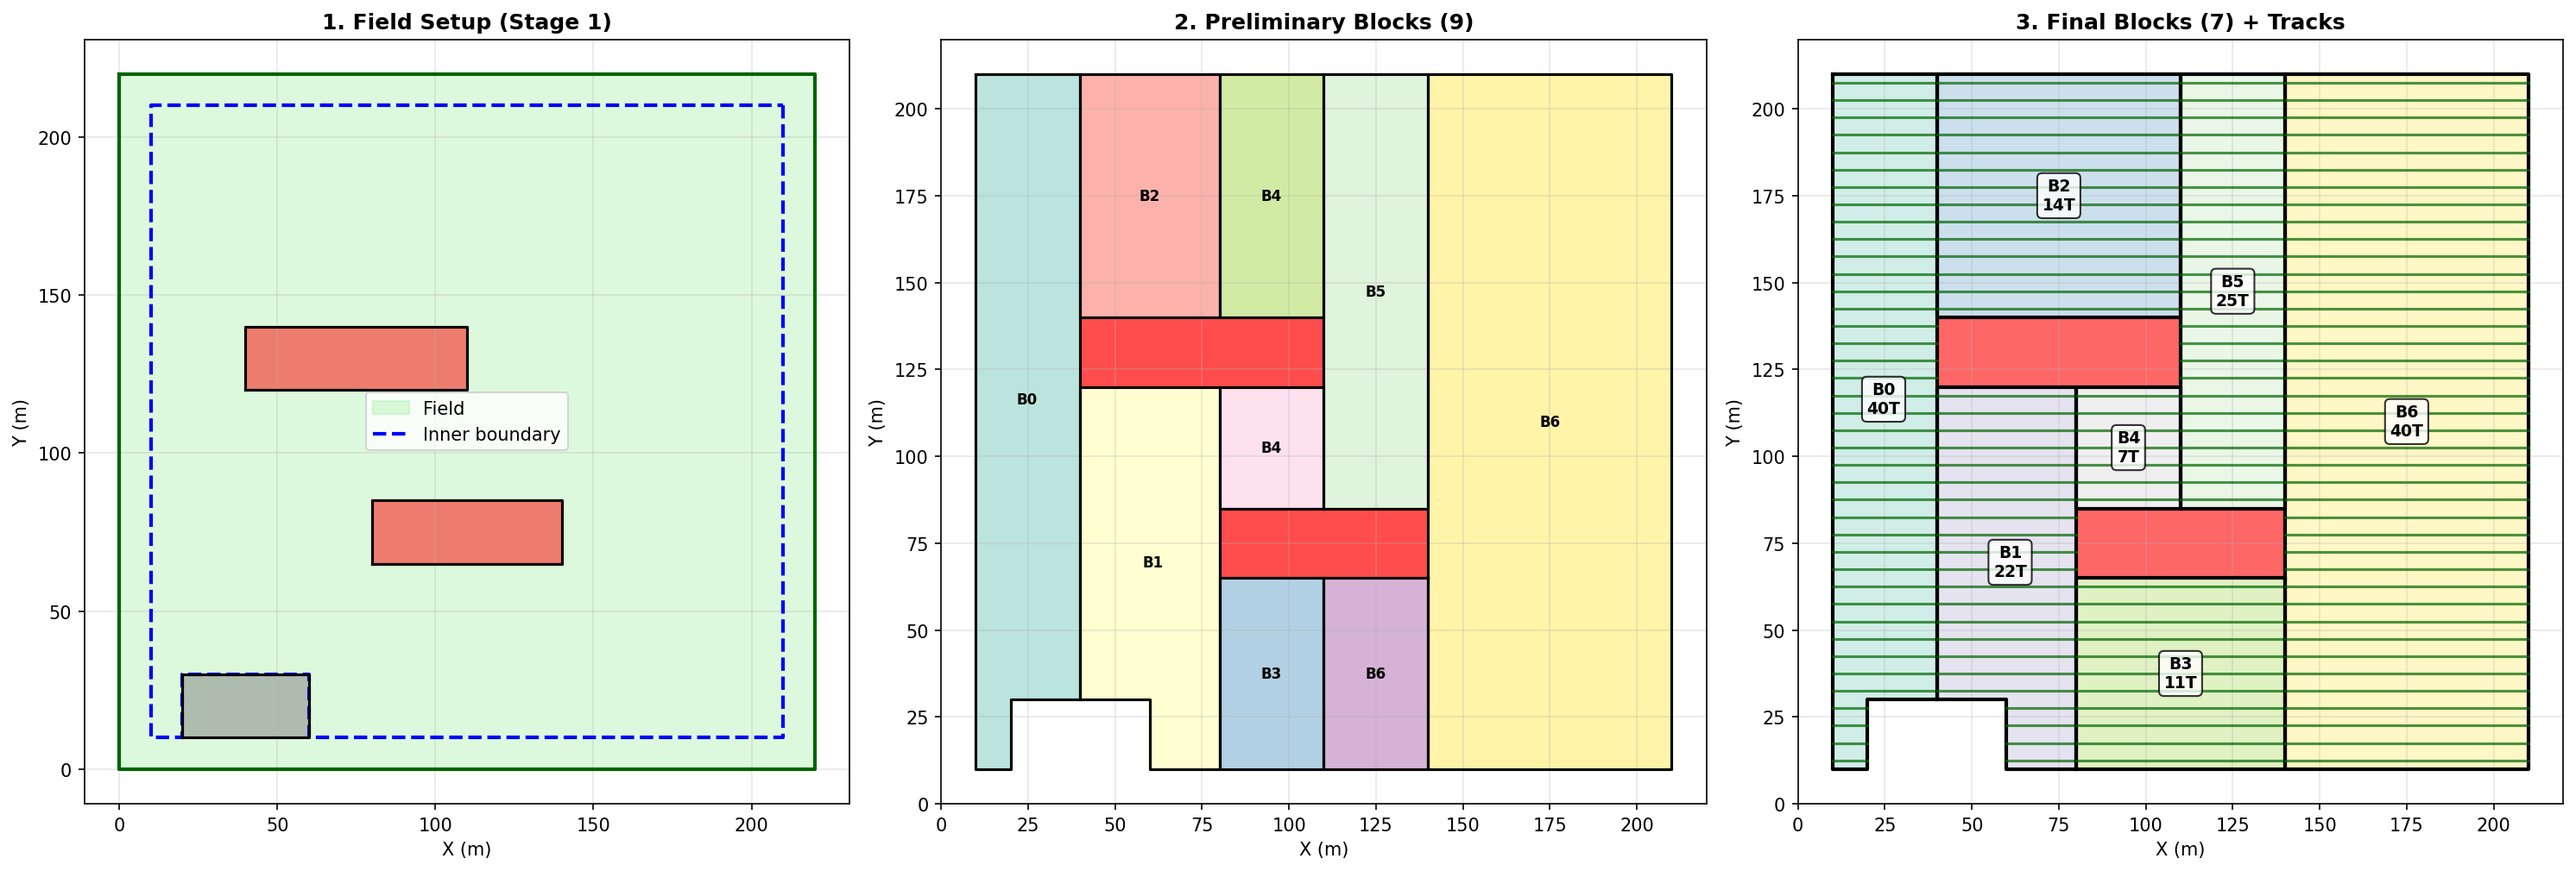
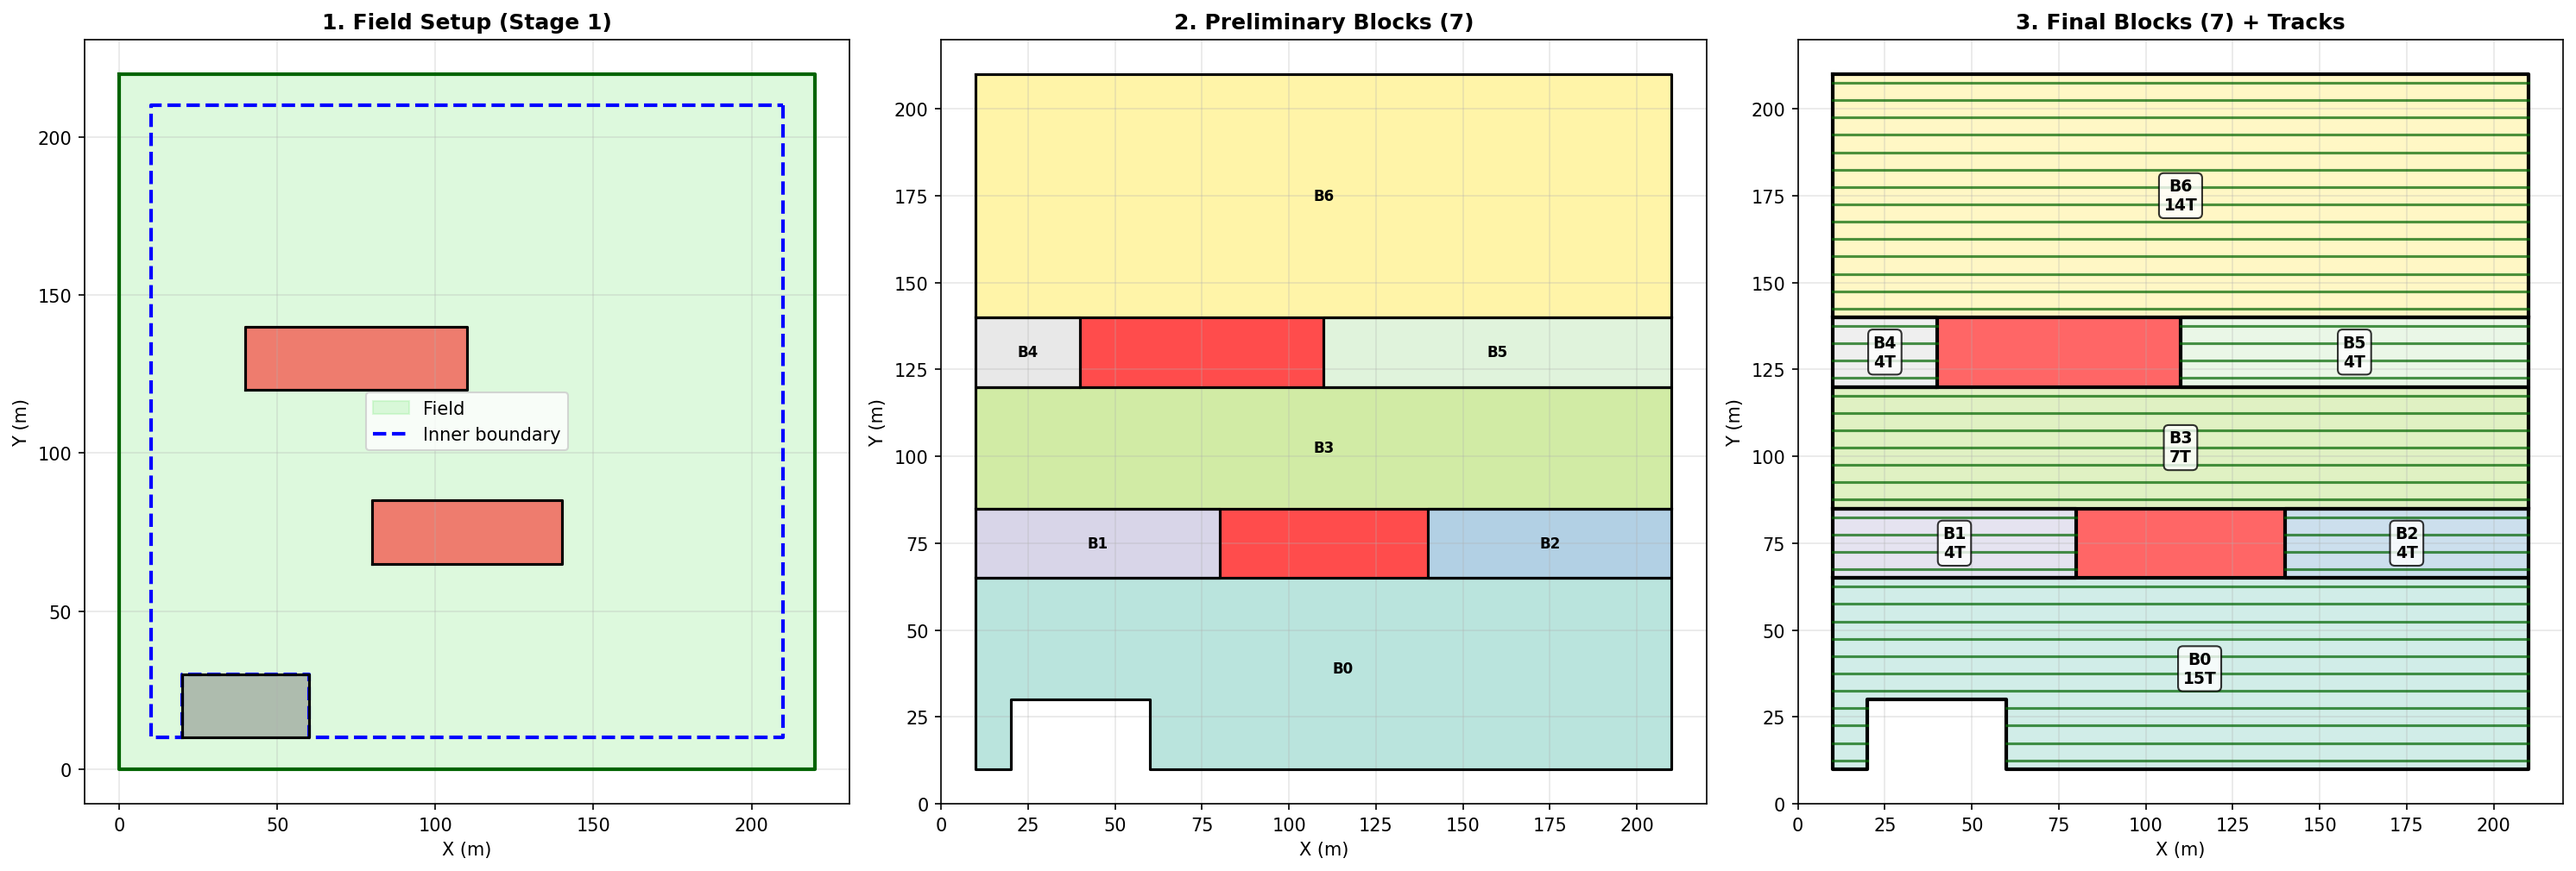
Fix the parallel slice direction

Changed region(s): [[0.6857, 0.0614, 0.9973, 0.8901], [0.374, 0.0614, 0.6545, 0.8901]]

diff --git a/src/decomposition/boustrophedon.py b/src/decomposition/boustrophedon.py
@@ -5,10 +5,11 @@ Implements the *second stage* decomposition algorithm from Zhou et al. 2014
 ([`10.1016/j.compag.2014.08.013`](http://dx.doi.org/10.1016/j.compag.2014.08.013)),
 Section 2.3:
 
-- Sweeps perpendicular to the driving direction θ
+- Slice lines are parallel to the driving direction θ
+- Sweep movement is perpendicular to the driving direction θ
 - Identifies critical points where connectivity of the free space changes
 - Creates obstacle-free cells (preliminary blocks) between consecutive
-  critical points, as illustrated in the figures of Section 2.3.
+  critical points, as illustrated in the figures of Section 2.3.1.
 
 This module corresponds conceptually to the boustrophedon decomposition
 step that transforms the field body (inner boundary minus Type B obstacles
@@ -38,9 +39,9 @@ def find_critical_points(
     - Sweep line enters/exits obstacle regions
 
     Algorithm:
-    1. Rotate field and obstacles to align with sweep direction (vertical)
-    2. Project all obstacle vertices onto sweep axis
-    3. Sort and deduplicate critical x-coordinates
+    1. Rotate field and obstacles to align driving direction horizontally (East)
+    2. Project all obstacle vertices onto sweep axis (perpendicular to driving dir)
+    3. Sort and deduplicate critical y-coordinates
 
     Args:
         inner_boundary: Field inner boundary polygon
@@ -48,10 +49,11 @@ def find_critical_points(
         driving_direction_degrees: Driving direction angle
 
     Returns:
-        Sorted list of critical x-coordinates in rotated coordinate system
+        Sorted list of critical y-coordinates in rotated coordinate system
     """
-    # Rotate to align driving direction horizontally (sweep vertically)
+    # Rotate to align driving direction horizontally (East)
     # We rotate by -angle to make driving direction point East (0°)
+    # After rotation, sweep lines are horizontal, sweeping vertically
     rotation_angle = -driving_direction_degrees
 
     # Rotate field boundary
@@ -60,72 +62,74 @@ def find_critical_points(
     # Rotate obstacles
     rotated_obstacles = [rotate_geometry(obs, rotation_angle) for obs in obstacles]
 
-    # Collect critical x-coordinates
-    critical_x = []
+    # Collect critical y-coordinates (sweep is perpendicular to driving direction)
+    critical_y = []
 
-    # Add field boundary x-coordinates (left and right extents)
+    # Add field boundary y-coordinates (bottom and top extents)
     bounds = rotated_boundary.bounds  # (minx, miny, maxx, maxy)
-    critical_x.append(bounds[0])  # Left boundary
-    critical_x.append(bounds[2])  # Right boundary
+    critical_y.append(bounds[1])  # Bottom boundary
+    critical_y.append(bounds[3])  # Top boundary
 
-    # Add all obstacle vertex x-coordinates
+    # Add all obstacle vertex y-coordinates
     for obs in rotated_obstacles:
         coords = list(obs.exterior.coords[:-1])  # Exclude duplicate last point
         for x, y in coords:
-            critical_x.append(x)
+            critical_y.append(y)
 
     # Sort and remove duplicates (with small tolerance for floating point)
-    critical_x = sorted(set(np.round(critical_x, decimals=6)))
+    critical_y = sorted(set(np.round(critical_y, decimals=6)))
 
-    return critical_x
+    return critical_y
 
 
-def create_sweep_line(x_coord: float, y_min: float, y_max: float) -> LineString:
+def create_sweep_line(y_coord: float, x_min: float, x_max: float) -> LineString:
     """
-    Create a vertical sweep line at given x-coordinate.
+    Create a horizontal sweep line at given y-coordinate.
+
+    The sweep line is parallel to the driving direction (after rotation to East).
 
     Args:
-        x_coord: X-coordinate for sweep line
-        y_min: Minimum Y value (bottom)
-        y_max: Maximum Y value (top)
+        y_coord: Y-coordinate for sweep line
+        x_min: Minimum X value (left)
+        x_max: Maximum X value (right)
 
     Returns:
-        Vertical LineString representing sweep line
+        Horizontal LineString representing sweep line (parallel to driving direction)
     """
-    return LineString([(x_coord, y_min), (x_coord, y_max)])
+    return LineString([(x_min, y_coord), (x_max, y_coord)])
 
 
 def compute_slice_polygons(
     inner_boundary: Polygon,
     obstacles: List[Polygon],
-    x_left: float,
-    x_right: float,
-    y_min: float,
-    y_max: float,
+    y_bottom: float,
+    y_top: float,
+    x_min: float,
+    x_max: float,
 ) -> List[Polygon]:
     """
-    Compute obstacle-free polygons in a vertical slice.
+    Compute obstacle-free polygons in a horizontal slice.
 
-    Creates a rectangular slice and subtracts all obstacle regions,
-    resulting in one or more obstacle-free cells.
+    Creates a rectangular slice (parallel to driving direction) and subtracts
+    all obstacle regions, resulting in one or more obstacle-free cells.
 
     Args:
         inner_boundary: Field inner boundary
         obstacles: List of obstacles
-        x_left: Left boundary of slice
-        x_right: Right boundary of slice
-        y_min: Bottom boundary
-        y_max: Top boundary
+        y_bottom: Bottom boundary of slice
+        y_top: Top boundary of slice
+        x_min: Left boundary
+        x_max: Right boundary
 
     Returns:
         List of obstacle-free polygon cells in this slice
     """
-    # Create rectangular slice
+    # Create rectangular slice (horizontal, parallel to driving direction after rotation)
     slice_box = Polygon([
-        (x_left, y_min),
-        (x_right, y_min),
-        (x_right, y_max),
-        (x_left, y_max),
+        (x_min, y_bottom),
+        (x_max, y_bottom),
+        (x_max, y_top),
+        (x_min, y_top),
     ])
 
     # Intersect slice with field boundary
@@ -222,36 +226,36 @@ def boustrophedon_decomposition(
     if inner_boundary.is_empty or not inner_boundary.is_valid:
         return []
 
-    # 2. Rotate geometry to align with sweep direction
+    # 2. Rotate geometry to align driving direction horizontally (East)
     rotation_angle = -driving_direction_degrees
     rotated_boundary = rotate_geometry(inner_boundary, rotation_angle)
     rotated_obstacles = [rotate_geometry(obs, rotation_angle) for obs in obstacles]
 
     # 3. Get bounding box to determine sweep range
     bounds = rotated_boundary.bounds  # (minx, miny, maxx, maxy)
-    y_min, y_max = bounds[1], bounds[3]
+    x_min, x_max = bounds[0], bounds[2]
 
-    # 4. Find critical points
+    # 4. Find critical points (Y-coordinates for horizontal slices)
     critical_points = find_critical_points(inner_boundary, obstacles, driving_direction_degrees)
 
     if len(critical_points) < 2:
         # Field too small or degenerate
         return []
 
-    # 5. Create slices between consecutive critical points
+    # 5. Create horizontal slices between consecutive critical Y-coordinates
     block_polygons_rotated = []
 
     for i in range(len(critical_points) - 1):
-        x_left = critical_points[i]
-        x_right = critical_points[i + 1]
+        y_bottom = critical_points[i]
+        y_top = critical_points[i + 1]
 
-        # Skip zero-width slices
-        if abs(x_right - x_left) < 1e-6:
+        # Skip zero-height slices
+        if abs(y_top - y_bottom) < 1e-6:
             continue
 
-        # Compute obstacle-free cells in this slice
+        # Compute obstacle-free cells in this horizontal slice
         slice_polygons = compute_slice_polygons(
-            rotated_boundary, rotated_obstacles, x_left, x_right, y_min, y_max
+            rotated_boundary, rotated_obstacles, y_bottom, y_top, x_min, x_max
         )
 
         # Add to results

diff --git a/tests/test_stage3_integration.py b/tests/test_stage3_integration.py
@@ -100,11 +100,20 @@ def test_full_stage3_pipeline():
     print("\n[STAGE 3] Entry/Exit Node Generation")
     print("-" * 80)
 
-    # Create entry/exit nodes for all blocks
+    # Filter out blocks with no tracks (too narrow to traverse)
+    # After corrected sweep direction, some blocks may be too narrow perpendicular to driving direction
+    traversable_blocks = [b for b in final_blocks if len(b.tracks) > 0]
+    print(f" Traversable blocks (with tracks): {len(traversable_blocks)}/{len(final_blocks)}")
+
+    # Renumber blocks to be consecutive (required for ACO solver)
+    for new_id, block in enumerate(traversable_blocks):
+        block.block_id = new_id
+
+    # Create entry/exit nodes for traversable blocks only
     all_nodes = []
     node_index = 0
 
-    for block in final_blocks:
+    for block in traversable_blocks:
         nodes = block.create_entry_exit_nodes(start_index=node_index)
         all_nodes.extend(nodes)
         node_index += 4
@@ -117,7 +126,9 @@ def test_full_stage3_pipeline():
     print("\n[STAGE 3] Cost Matrix Construction")
     print("-" * 80)
 
-    cost_matrix = build_cost_matrix(blocks=final_blocks, nodes=all_nodes, turning_penalty=0.0)
+    # Build cost matrix with traversable blocks
+    # Note: we pass traversable_blocks here, and the nodes have been renumbered to match
+    cost_matrix = build_cost_matrix(blocks=traversable_blocks, nodes=all_nodes, turning_penalty=0.0)
 
     print(f" Cost matrix built: {cost_matrix.shape}")
     print(f"  - Matrix size: {cost_matrix.shape[0]} x {cost_matrix.shape[1]}")
@@ -145,12 +156,13 @@ def test_full_stage3_pipeline():
         elitist_weight=2.0,
     )
 
+    # Pass traversable blocks to ACO solver
     solver = ACOSolver(
-        blocks=final_blocks, nodes=all_nodes, cost_matrix=cost_matrix, params=aco_params
+        blocks=traversable_blocks, nodes=all_nodes, cost_matrix=cost_matrix, params=aco_params
     )
 
     print(f" ACO Solver initialized")
-    print(f"  - Blocks: {len(final_blocks)}")
+    print(f"  - Blocks: {len(traversable_blocks)}")
     print(f"  - Nodes: {len(all_nodes)}")
     print(f"  - Ants: {aco_params.num_ants}")
     print(f"  - Iterations: {aco_params.num_iterations}")
@@ -172,8 +184,8 @@ def test_full_stage3_pipeline():
         print(f"  - Block sequence: {best_solution.block_sequence}")
         print(f"  - Blocks visited: {len(set(best_solution.block_sequence))}")
 
-        # Verify solution validity
-        assert best_solution.is_valid(len(final_blocks)), "Solution is not valid!"
+        # Verify solution validity (against traversable blocks only)
+        assert best_solution.is_valid(len(traversable_blocks)), "Solution is not valid!"
         assert len(best_solution.path) > 0, "Solution path is empty!"
         assert best_solution.cost > 0, "Solution cost must be positive!"
 

diff --git a/tests/test_decomposition.py b/tests/test_decomposition.py
@@ -41,10 +41,12 @@ class TestCriticalPoints:
 
         critical_points = find_critical_points(field, obstacles, driving_direction_degrees=0.0)
 
-        # Should have 2 critical points (left and right boundaries)
+        # Should have 2 critical points (bottom and top boundaries for Y-sweep)
+        # With driving_direction=0° (East), slices are horizontal, sweep vertically
+        # Critical points are Y-coordinates: Y=0 (bottom), Y=80 (top)
         assert len(critical_points) == 2
         assert np.isclose(critical_points[0], 0.0)
-        assert np.isclose(critical_points[1], 100.0)
+        assert np.isclose(critical_points[1], 80.0)
 
     def test_single_obstacle(self):
         """Test critical points with one rectangular obstacle."""
@@ -54,15 +56,15 @@ class TestCriticalPoints:
 
         critical_points = find_critical_points(field, obstacles, driving_direction_degrees=0.0)
 
-        # Should have field boundaries + obstacle boundaries
-        # Field: x=0, x=100
-        # Obstacle: x=30, x=50
-        # Total: 4 critical points
+        # Should have field boundaries + obstacle boundaries (Y-coordinates)
+        # Field: y=0, y=80
+        # Obstacle: y=30, y=50
+        # Total: 4 critical Y-coordinates
         assert len(critical_points) == 4
         assert 0.0 in critical_points
         assert 30.0 in critical_points
         assert 50.0 in critical_points
-        assert 100.0 in critical_points
+        assert 80.0 in critical_points
 
 
 class TestBoustrophedonDecomposition:
